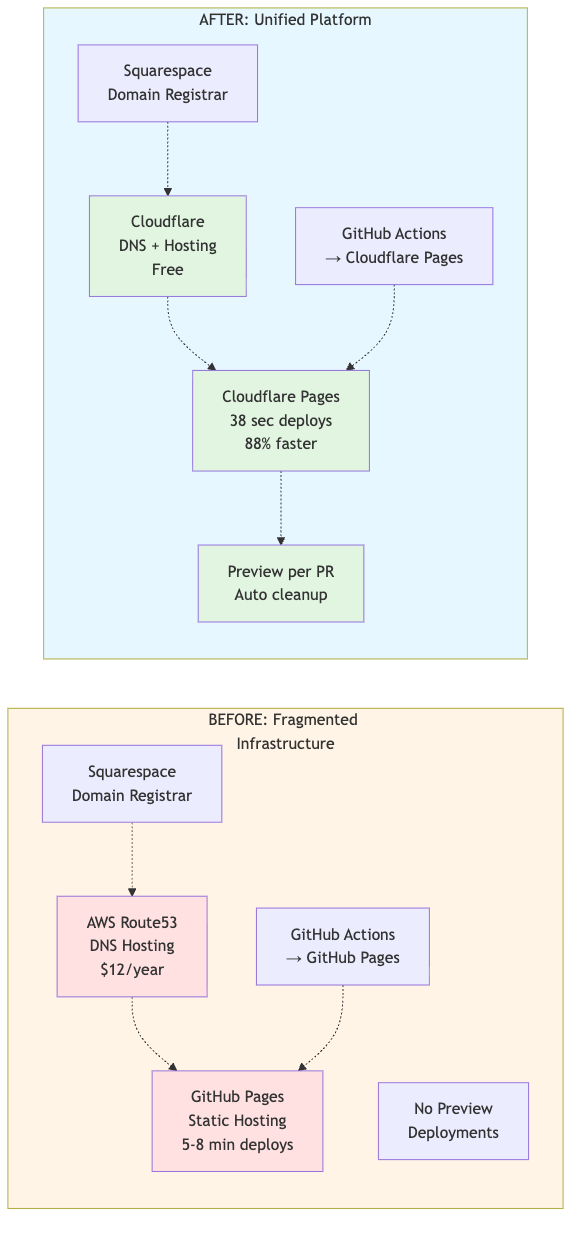
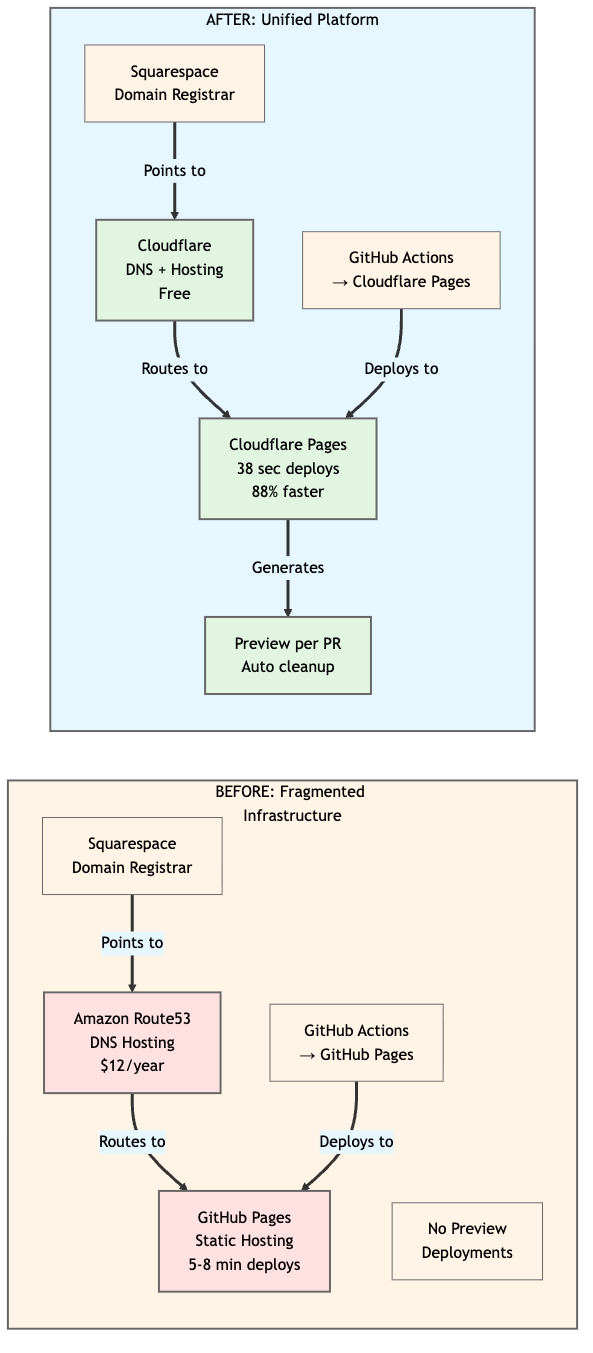
Refine DNS migration post based on feedback
Content improvements:
- Rephrase opening without em-dash, use Amazon Route53
- Add DNS catastrophe example (missing customer orders scenario)
- Clarify GitHub still hosts code repository (unchanged)
- Fix Line 227: remove 'stress' (migrations result in stress, not require it)
- Add GitHub Actions deployment target clarification

Technical improvements:
- Fix image paths: /assets/ instead of ../../../public/assets/
- Regenerate diagrams with thicker arrows (3-4px) for dark theme visibility
- Use thick arrows (==>) for main workflow paths
- Add arrow labels for clarity in infrastructure diagram

SEO/Accuracy:
- Use 'Amazon Route53' instead of 'AWS Route53' throughout
- More accurate phrasing: migrations CAN be zero-downtime, but carry higher risk

Changed region(s): [[0.0, 0.0, 0.9948, 0.9862]]

diff --git a/src/data/blog/zero-downtime-dns-migration.md b/src/data/blog/zero-downtime-dns-migration.md
@@ -6,7 +6,7 @@ tags: ["devops", "ai", "cloudflare", "cicd", "automation", "goose", "dns", "migr
 featured: true
 ---
 
-We migrated complete website infrastructure—hosting, DNS, CI/CD—from AWS Route53 + GitHub Pages to Cloudflare **in 2 hours, during business hours**. Zero downtime. Zero manual commands.
+We migrated complete website infrastructure from Amazon Route53 + GitHub Pages to Cloudflare **in 2 hours, during business hours**. This included hosting, DNS, and CI/CD. Zero downtime. Zero manual commands.
 
 **The entire migration:** Started with one prompt, then reviewed and approved AI-proposed changes.
 
@@ -19,10 +19,11 @@ The only manual step: Creating a Cloudflare API token.
 ## The Starting Point
 
 **Infrastructure:**
-- Hosting: GitHub Pages
-- DNS: AWS Route53 (20+ DNS records)
-- Domain: Squarespace (registrar)
-- CI/CD: GitHub Actions → GitHub Pages
+- **Code repository:** GitHub (unchanged after migration)
+- **Hosting:** GitHub Pages
+- **DNS:** Amazon Route53 (20+ DNS records)
+- **Domain:** Squarespace (registrar)
+- **CI/CD:** GitHub Actions → GitHub Pages
 
 **Critical services:**
 - Email (5 MX records for Google Workspace)
@@ -43,7 +44,7 @@ Migrate everything to Cloudflare:
 
 **The traditional challenge:**
 
-DNS migrations CAN be done with zero downtime, but they require extensive planning, careful execution, and carry high stress. One misconfigured MX record means email down for hours. The cost: potential revenue loss plus customer impact.
+DNS migrations CAN be done with zero downtime, but they require extensive planning and careful execution. One misconfigured MX record means email down for hours—imagine missing customer orders, support tickets, or sales inquiries during your peak season.
 
 **The difference with AI assistance:**
 
@@ -82,7 +83,7 @@ and Google Workspace cannot break. Use a risk-adverse approach.
 
 **Critical:** We reviewed every decision. The AI proposed, we approved. The combination of automation + human judgment enabled confidence.
 
-![Migration workflow diagram showing approval gates and validation steps](../../../public/assets/migration-workflow.png)
+![Migration workflow diagram showing approval gates and validation steps](/assets/migration-workflow.png)
 *Figure 1: AI-assisted migration workflow with two human approval gates ensuring governance and confidence*
 
 ## What Goose Automated
@@ -105,6 +106,11 @@ Goose analyzed all Route53 records, kept 15 critical ones (MX, SPF, DKIM, DMARC,
 Every record validated before switching.
 
 ### 3. GitHub Actions CI/CD Setup
+
+**What changed:** Deployment target only. Code still lives in GitHub repository.
+
+**Before:** GitHub Actions → GitHub Pages  
+**After:** GitHub Actions → Cloudflare Pages
 
 Created `.github/workflows/deploy.yml` for 38-second deployments (vs 5-8 minutes on GitHub Pages).
 
@@ -129,7 +135,7 @@ Creating a Cloudflare API token (2 minutes):
 
 That's it. Everything else: automated.
 
-![Infrastructure comparison showing before and after architecture](../../../public/assets/infrastructure-comparison.png)
+![Infrastructure comparison showing before and after architecture](/assets/infrastructure-comparison.png)
 *Figure 2: Infrastructure transformation - from fragmented AWS/GitHub setup to unified Cloudflare platform*
 
 ## Results
@@ -234,7 +240,7 @@ The ability to review changes before production delivers multiple benefits.
 
 **The transformation:** From "plan exhaustively and execute carefully" to "validate programmatically and execute confidently."
 
-Traditional migrations CAN achieve zero downtime - they just require more planning, more stress, and carry higher risk of manual errors. We knew every record worked before switching nameservers. No deployment anxiety. No extensive contingency planning. Just confidence through automation.
+Traditional migrations CAN achieve zero downtime, but they require more planning and carry higher risk of manual errors. We knew every record worked before switching nameservers. No deployment anxiety. No extensive contingency planning. Just confidence through automation.
 
 **The proof:** This blog post was reviewed at a preview URL before going live—using the same automation we're describing. The system documents itself.
 
